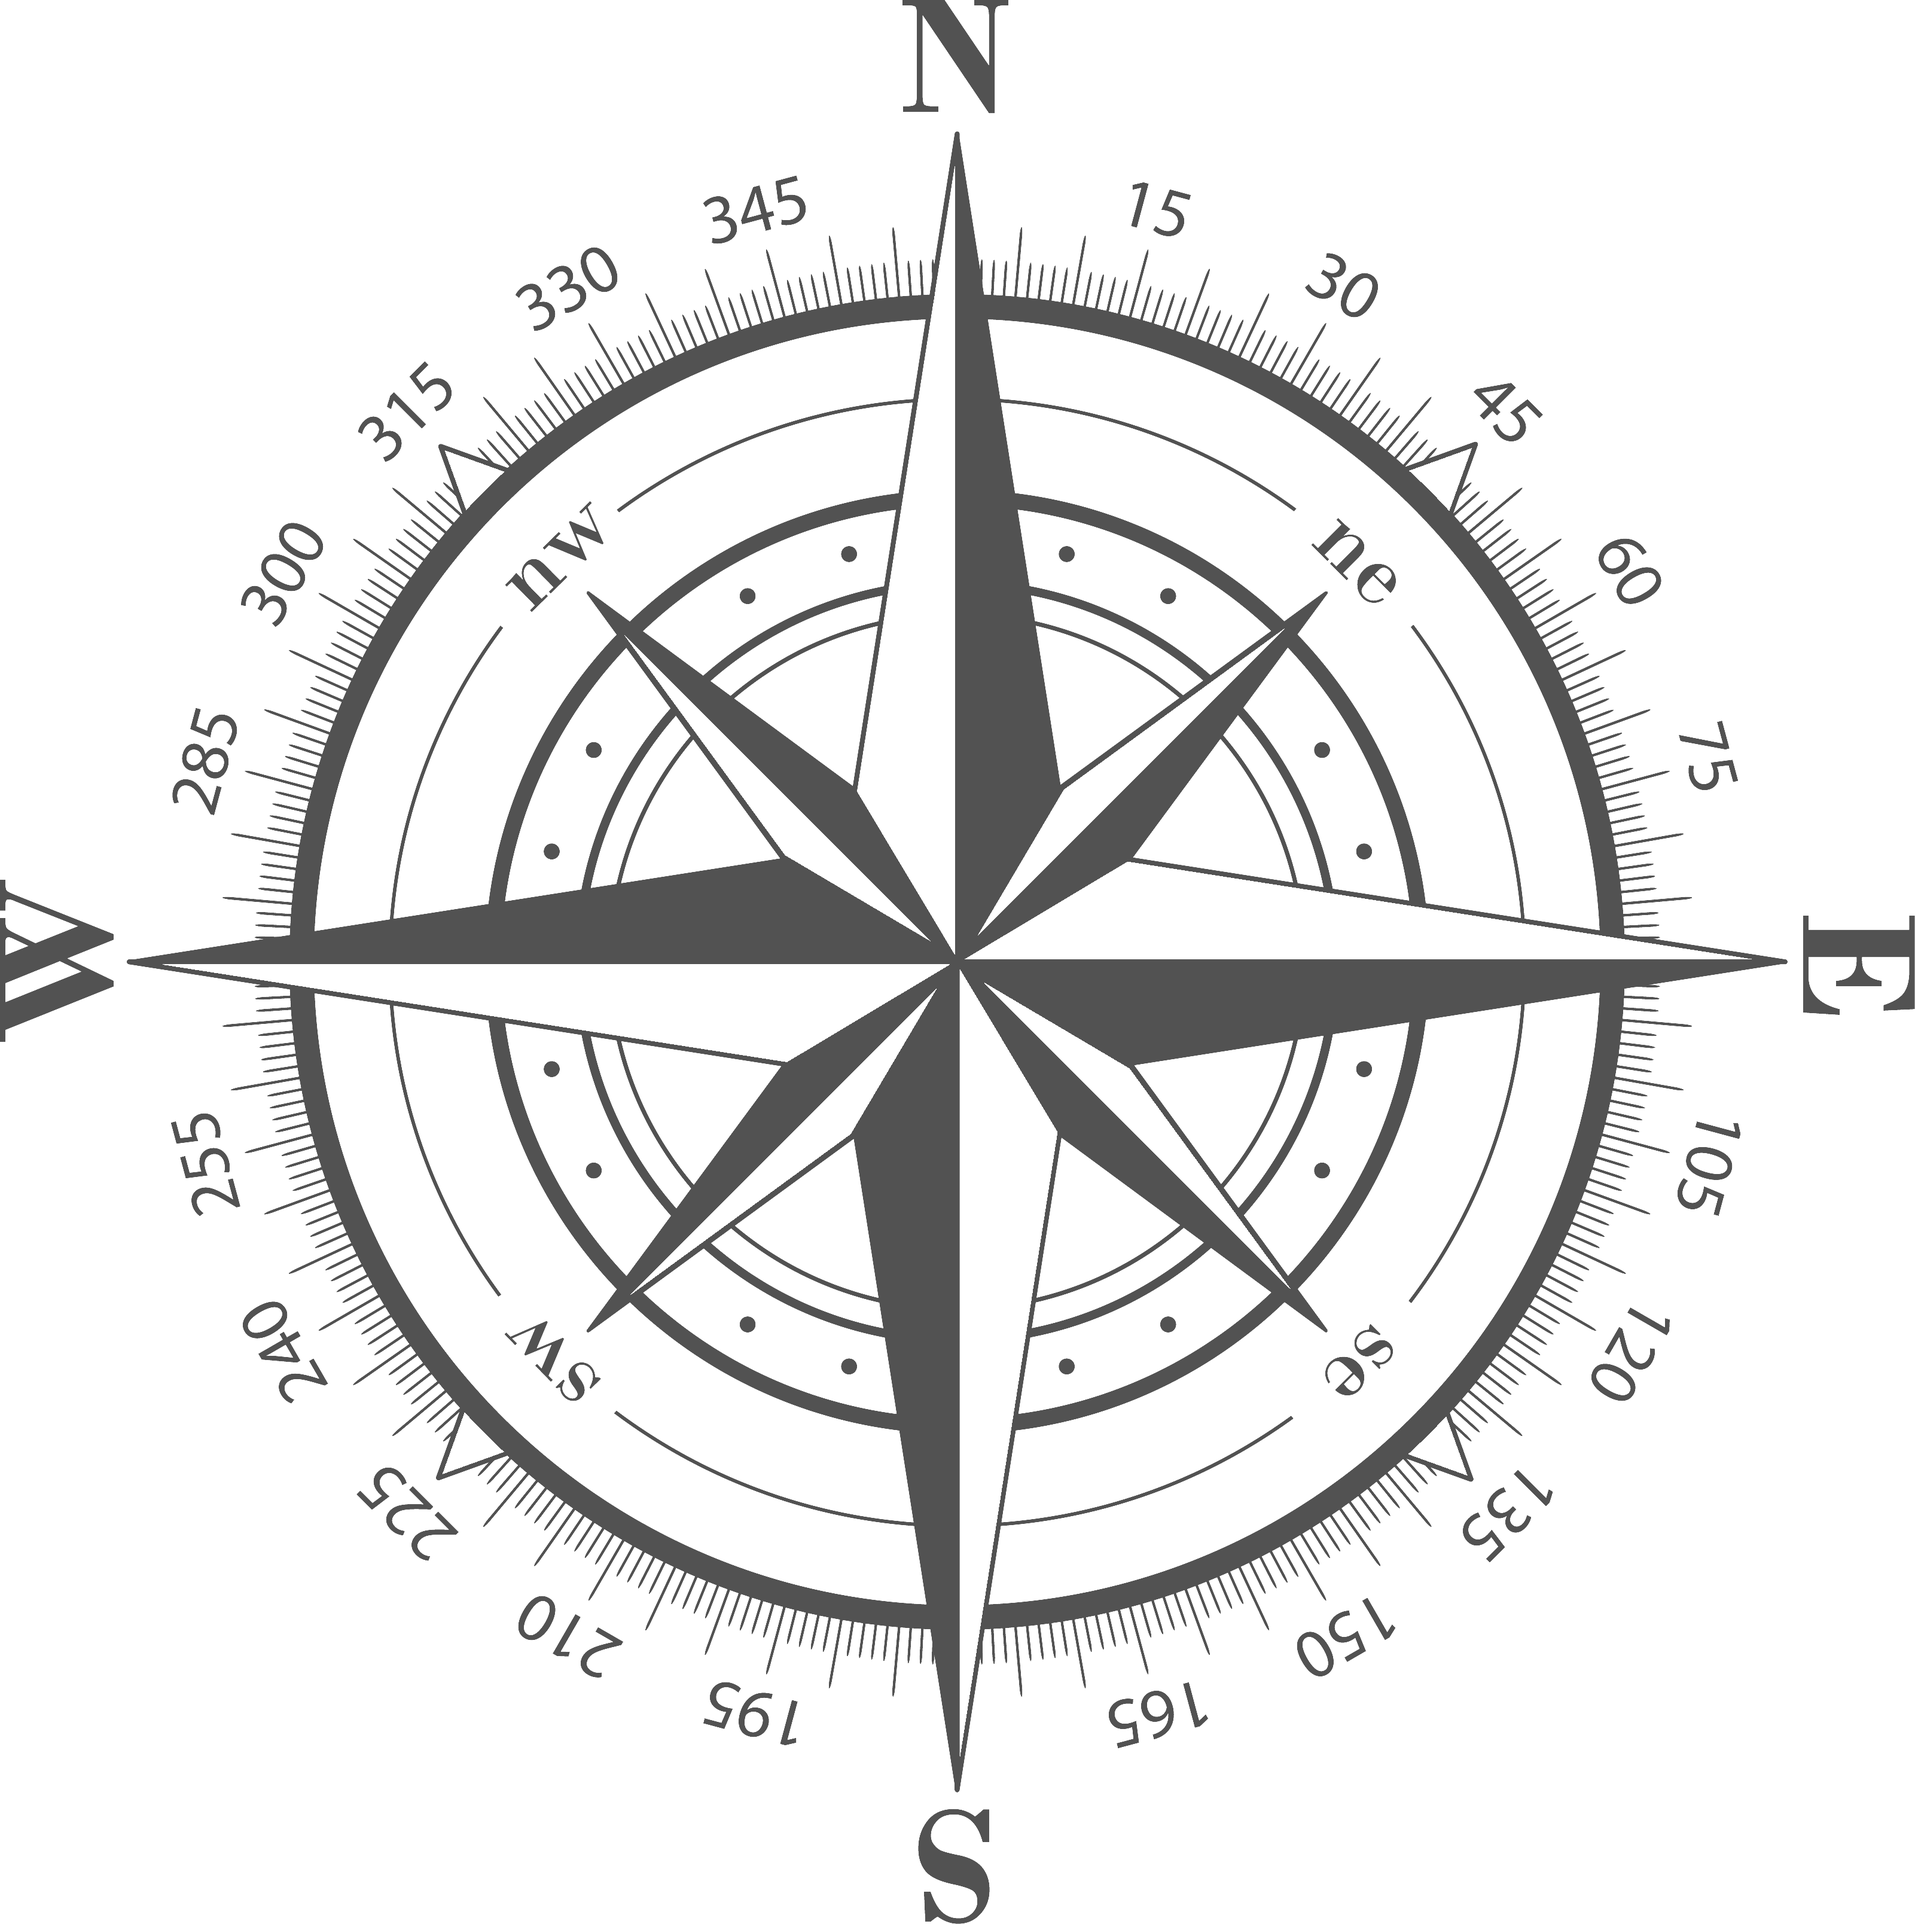
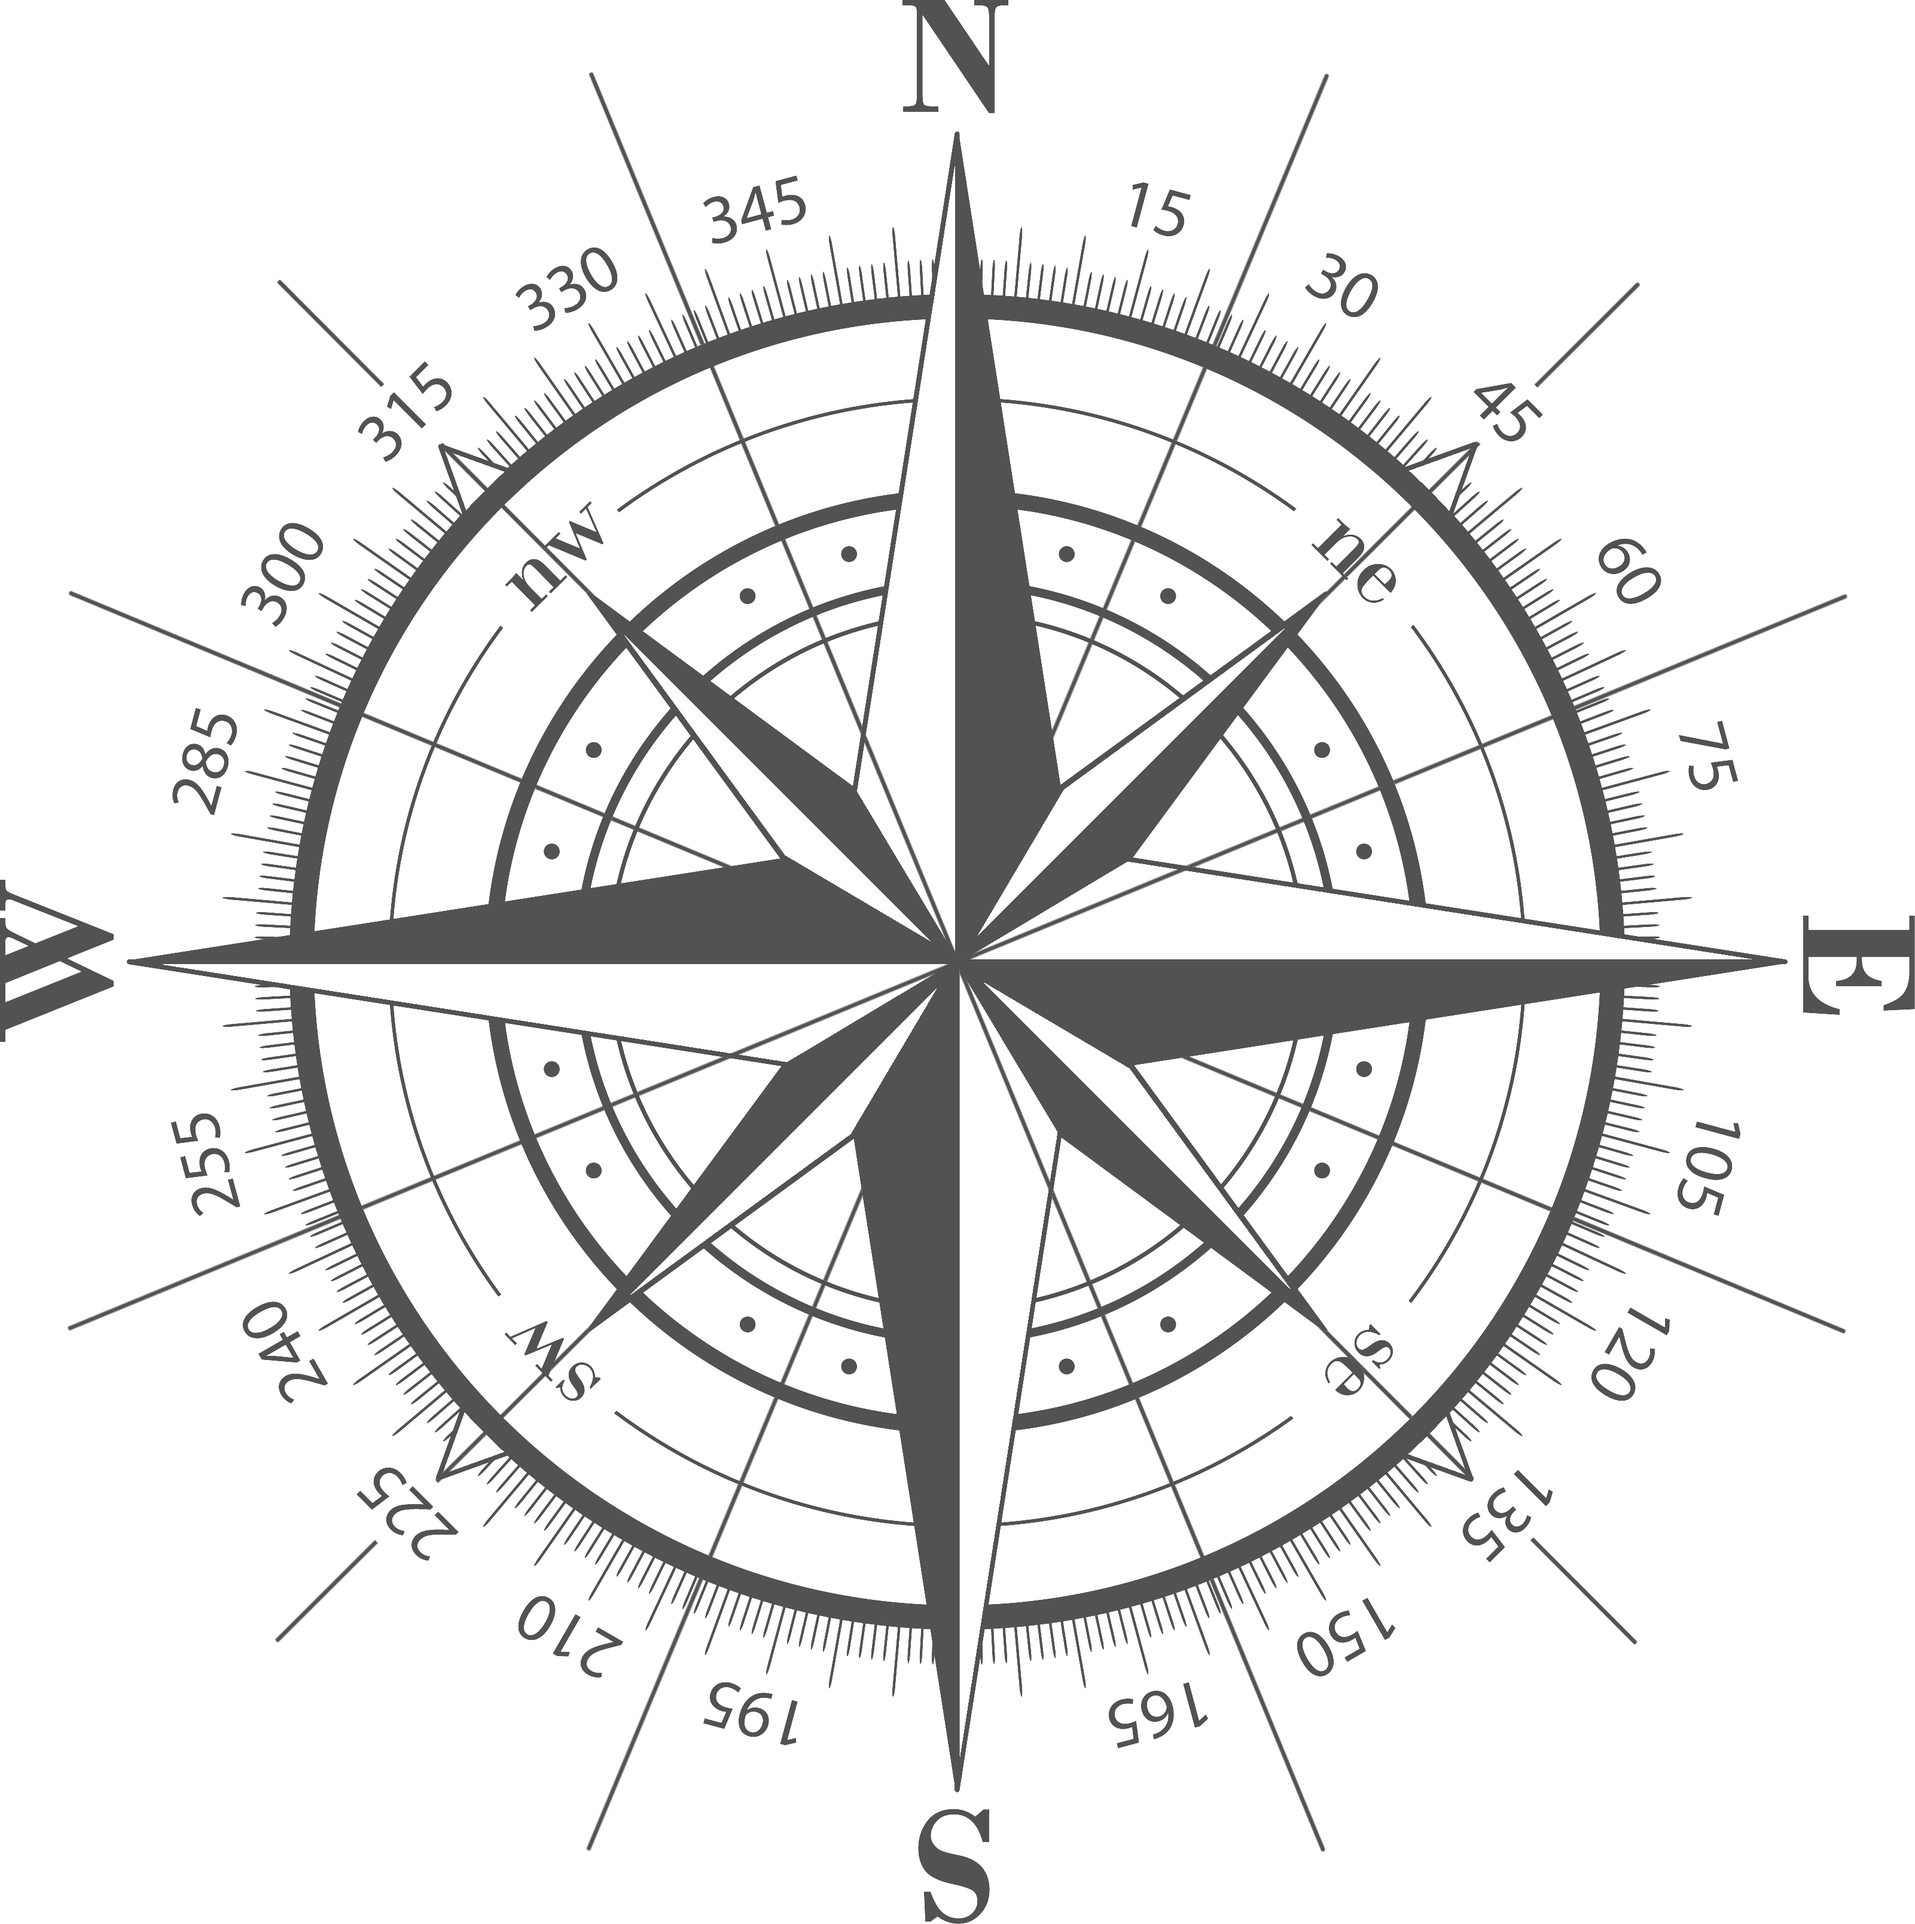
added info box and 22.5 deg compass lines

diff --git a/index.html b/index.html
@@ -124,9 +124,16 @@
         <label>Longitude: </label><span class="right" id="xposition"></span>
       </div>
     </div>
+
+    <div class="box" id="TipsAndInfo">
+      <h1>Info</h1>
+      <hr>
+      <div class="row">
+        <label>Click to place plot points, click and hold to delete them.</label>
+      </div>
+    </div>
+
   </div>
-
-
 
 </body>
 <script src="./js/source.js"></script>
